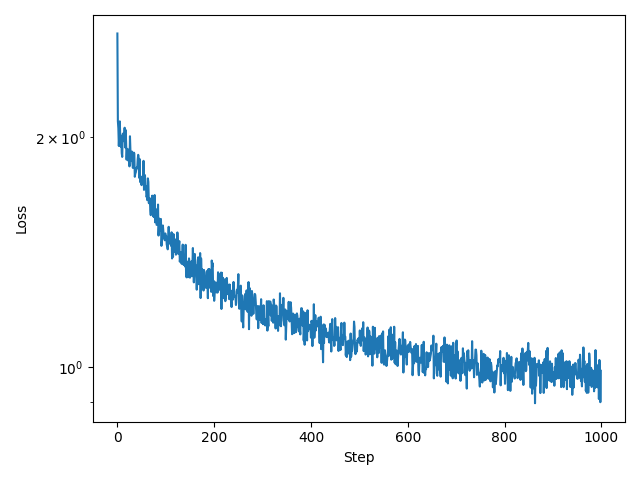
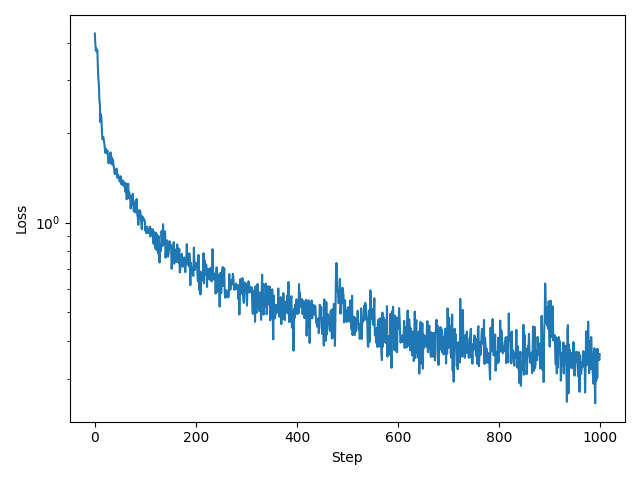
implemented cbam module

diff --git a/src/diffusion_models/architectures/blocks/base.py b/src/diffusion_models/architectures/blocks/base.py
@@ -520,3 +520,123 @@ class FeatureFusion(nn.Module):
         x = self.fusion_layer(x)  # (B, C, L, 1)
         out = x.squeeze(-1)  # (B, C, L)
         return out
+
+
+class CBAM(nn.Module):
+    """
+    Convolutional Block Attention Module (CBAM) for 1D data.
+    """
+
+    def __init__(self, channels: int, reduction_ratio: int = 4, kernel_size: int = 7):
+        super().__init__()
+        self.channel_attention = nn.Sequential(
+            nn.Linear(channels, channels // reduction_ratio),
+            nn.ReLU(),
+            nn.Linear(channels // reduction_ratio, channels),
+            nn.Sigmoid(),
+        )
+        self.spatial_attention = nn.Sequential(
+            nn.Conv1d(2, 1, kernel_size=kernel_size, padding=kernel_size // 2),
+            nn.Sigmoid(),
+        )
+
+    def forward(self, x: torch.Tensor) -> torch.Tensor:
+        """
+        Args:
+        - x: (B, C, L)
+        Returns:
+        - out: (B, C, L)
+        """
+        # Store residual
+        residual = x
+
+        # Compute the max and average across the time dimension
+        avg_pool = torch.mean(x, dim=2, keepdim=True)  # (B, C, 1)
+        max_pool, _ = torch.max(x, dim=2, keepdim=True)  # (B, C, 1)
+
+        # Run through MLP
+        avg_pool = self.channel_attention(avg_pool)  # (B, C, 1)
+        max_pool = self.channel_attention(max_pool)  # (B, C, 1)
+
+        # Compute channel attention
+        x = torch.sigmoid(x * (avg_pool + max_pool))  # (B, C, L)
+
+        # Spatial Attention
+        avg_out = torch.mean(x, dim=1, keepdim=True)  # (B, 1, L)
+        max_out, _ = torch.max(x, dim=1, keepdim=True)  # (B, 1, L)
+        sa_input = torch.cat([avg_out, max_out], dim=1)  # (B, 2, L)
+        sa = self.spatial_attention(sa_input)  # (B, 1, L)
+        out = x * sa  # (B, C, L)
+
+        out = out + residual  # (B, C, L)
+
+        return out
+
+
+class ConditionalCBAM(nn.Module):
+    """
+    Convolutional Block Attention Module (CBAM) for 1D data with conditioning.
+    """
+
+    def __init__(
+        self,
+        channels: int,
+        cond_dim: int,
+        reduction_ratio: int = 4,
+        kernel_size: int = 7,
+        num_groups: int = 8,
+    ):
+        super().__init__()
+
+        # Normalize input before attention computation
+        self.input_norm = AdaGroupNorm(
+            num_groups=num_groups, num_channels=channels, cond_dim=cond_dim
+        )
+
+        self.channel_attention = nn.Sequential(
+            nn.Linear(channels + cond_dim, channels // reduction_ratio),
+            nn.ReLU(),
+            nn.Linear(channels // reduction_ratio, channels),
+            nn.Sigmoid(),
+        )
+
+        self.spatial_attention = nn.Sequential(
+            nn.Conv1d(2, 1, kernel_size=kernel_size, padding=kernel_size // 2),
+            nn.Sigmoid(),
+        )
+
+    def forward(self, x: torch.Tensor, cond: torch.Tensor) -> torch.Tensor:
+        """
+        Args:
+        - x: (B, C, L)
+        - cond: (B, cond_dim)
+        Returns:
+        - out: (B, C, L)
+        """
+        residual = x
+
+        # Normalize input with conditioning
+        x = self.input_norm(x, cond)  # (B, C, L)
+
+        # Channel Attention
+        avg_pool = torch.mean(x, dim=2)  # (B, C)
+        max_pool, _ = torch.max(x, dim=2)  # (B, C)
+
+        # Concatenate with conditioning
+        avg_pool = torch.cat([avg_pool, cond], dim=1)  # (B, C + cond_dim)
+        max_pool = torch.cat([max_pool, cond], dim=1)  # (B, C + cond_dim)
+
+        avg_out = self.channel_attention(avg_pool).unsqueeze(-1)  # (B, C, 1)
+        max_out = self.channel_attention(max_pool).unsqueeze(-1)  # (B, C, 1)
+
+        channel_att = avg_out + max_out  # (B, C, 1)
+        x = x * channel_att  # (B, C, L)
+
+        # Spatial Attention
+        avg_out = torch.mean(x, dim=1, keepdim=True)  # (B, 1, L)
+        max_out, _ = torch.max(x, dim=1, keepdim=True)  # (B, 1, L)
+        spatial_input = torch.cat([avg_out, max_out], dim=1)  # (B, 2, L)
+        spatial_att = self.spatial_attention(spatial_input)  # (B, 1, L)
+        out = x * spatial_att  # (B, C, L)
+
+        return out + residual

diff --git a/src/diffusion_models/models/tfilm/tfilm_cbam.py b/src/diffusion_models/models/tfilm/tfilm_cbam.py
@@ -1,0 +1,48 @@
+import torch
+
+from diffusion_models.architectures.tfilm_unet import TFiLMUNetCBAM
+from diffusion_models.data.loaders import DataSampler
+from diffusion_models.data.synthetic import WaveSampler
+from diffusion_models.dynamics.prob_paths import GaussianConditionalProbabilityPath
+from diffusion_models.dynamics.schedules import LinearAlpha, LinearBeta
+from diffusion_models.trainers import CFGTrainer
+from diffusion_models.utils.visualizations import visualize_generated_waves
+
+device = torch.device("cuda" if torch.cuda.is_available() else "cpu")
+
+# Initialize probability path
+path = GaussianConditionalProbabilityPath(
+    p_data=WaveSampler(),
+    p_simple_shape=[3, 100 * int(2 * torch.pi)],
+    alpha=LinearAlpha(),
+    beta=LinearBeta(),
+).to(device)
+
+activity_path = GaussianConditionalProbabilityPath(
+    p_data=DataSampler(dataset="wisdm"),
+    p_simple_shape=[3, 100],
+    alpha=LinearAlpha(),
+    beta=LinearBeta(),
+).to(device)
+
+# initialize model
+net = TFiLMUNetCBAM(
+    channels=[32, 64, 128],
+    num_residual_layers=2,
+    cond_dim=64,
+    num_classes=6,
+    input_channels=3,
+    num_tfilm_blocks=4,
+)
+
+trainer = CFGTrainer(path=path, model=net, eta=0.1, null_label=6)
+trainer.train(num_epochs=1000, device=device, lr=1e-3, batch_size=250)
+
+# visualize generated waves
+visualize_generated_waves(model=net, guidance_scales=(1.0, 2.0, 4.0))
+# visualize_generated_data_samples(model=net, guidance_scales=(1.0, 2.0, 4.0))
+
+# model parameters: 14.1 MiB
+# trains fast at about 7.5 it/s
+# loss is about   after 1000 epochs
+# samples look ok empirically, pretty noisy on lower amplitudes but cross-channel correlations look good

diff --git a/src/diffusion_models/architectures/blocks/midcoders.py b/src/diffusion_models/architectures/blocks/midcoders.py
@@ -1,7 +1,11 @@
 import torch
 import torch.nn as nn
 
-from diffusion_models.architectures.blocks.base import ResidualLayer, ResidualLayer4D
+from diffusion_models.architectures.blocks.base import (
+    ConditionalCBAM,
+    ResidualLayer,
+    ResidualLayer4D,
+)
 from diffusion_models.architectures.blocks.tfilm import TFiLM, TFiLMTransformer
 
 
@@ -154,5 +158,29 @@ class TFiLMMidcoder(nn.Module):
 
         # Apply TFiLM: (bs, c, L) -> (bs, c, L)
         x = self.tfilm(x)
+
+        return x
+
+
+class CBAMMidcoder(nn.Module):
+    def __init__(self, channels: int, num_residual_layers: int, cond_dim: int):
+        super().__init__()
+        self.res_blocks = nn.ModuleList(
+            [ResidualLayer(channels, cond_dim) for _ in range(num_residual_layers)]
+        )
+        self.cbam_blocks = nn.ModuleList(
+            [ConditionalCBAM(channels, cond_dim) for _ in range(num_residual_layers)]
+        )
+
+    def forward(self, x: torch.Tensor, cond: torch.Tensor) -> torch.Tensor:
+        """
+        Args:
+        - x: (bs, c, L)
+        - cond: (bs, cond_dim)
+        """
+        # Pass through residual blocks and CBAM blocks: (bs, c, L) -> (bs, c, L)
+        for res_block, cbam_block in zip(self.res_blocks, self.cbam_blocks):
+            x = res_block(x, cond)
+            x = cbam_block(x, cond)
 
         return x

diff --git a/src/diffusion_models/architectures/tfilm_unet.py b/src/diffusion_models/architectures/tfilm_unet.py
@@ -5,7 +5,7 @@ import torch.nn as nn
 from .blocks.base import InitialConvolution
 from .blocks.decoders import TFiLMDecoder
 from .blocks.encoders import TFiLMEncoder
-from .blocks.midcoders import TFiLMMidcoder
+from .blocks.midcoders import CBAMMidcoder, TFiLMMidcoder
 from .unet import UNet
 
 
@@ -109,3 +109,29 @@ class TFiLMUNetTransformer(UNet):
         self.final_conv = nn.Conv1d(
             channels[0], input_channels, kernel_size=3, padding=1
         )
+
+
+class TFiLMUNetCBAM(TFiLMUNet):
+    """
+    UNet with TFiLM and CBAM conditioning for 1D signals
+    """
+
+    def __init__(
+        self,
+        channels: List[int],
+        num_residual_layers: int,
+        num_tfilm_blocks: int,
+        num_classes: int,
+        cond_dim: int,
+        input_channels: int = 3,
+    ):
+        super().__init__(
+            channels,
+            num_residual_layers,
+            num_tfilm_blocks,
+            num_classes,
+            cond_dim,
+            input_channels,
+        )
+
+        self.midcoder = CBAMMidcoder(channels[-1], num_residual_layers, cond_dim)
